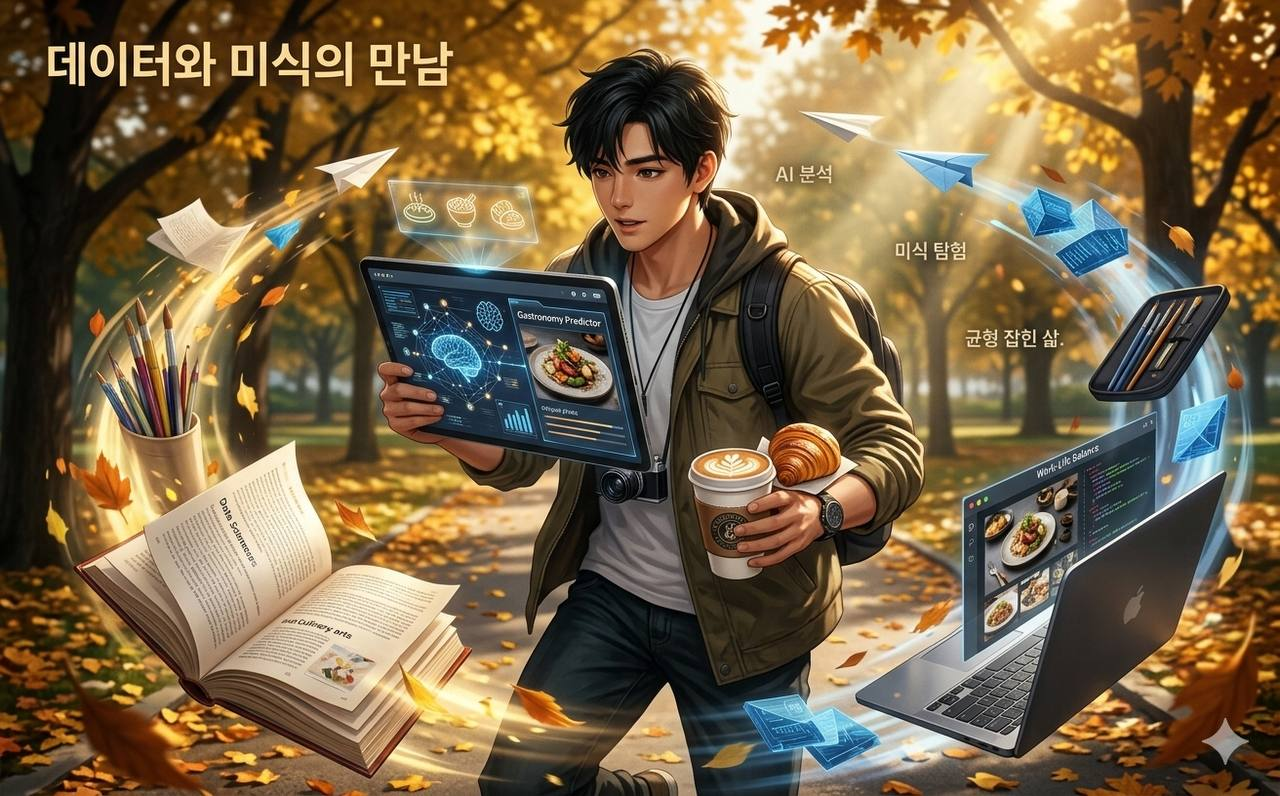
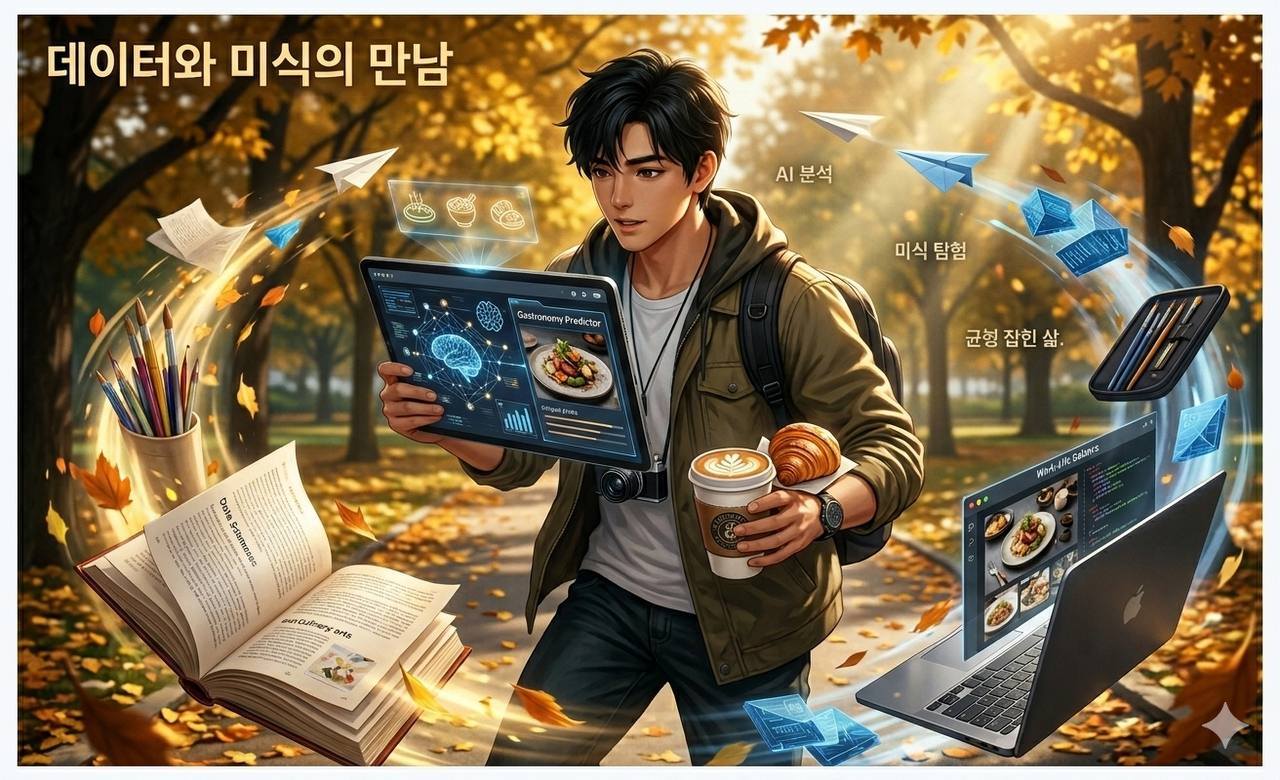
feat: update homepage hero image to 260x160

diff --git a/src/app/page.tsx b/src/app/page.tsx
@@ -37,12 +37,12 @@ export default function Home(){
               <CTAButtonLink href="/about" style={{background:'#4b5563'}}>About</CTAButtonLink>
             </CTAs>
           </div>
-          <div style={{ width: 420, height: 260, borderRadius: 12, overflow: 'hidden', flexShrink: 0, boxShadow: '0 10px 30px rgba(0,0,0,0.08)' }}>
+          <div style={{ width: 260, height: 160, borderRadius: 12, overflow: 'hidden', flexShrink: 0, boxShadow: '0 10px 30px rgba(0,0,0,0.08)' }}>
             <Image
               src="/images/hero-main.jpg"
               alt="Jamie Blog hero image"
-              width={420}
-              height={260}
+              width={260}
+              height={160}
               style={{ width: '100%', height: '100%', objectFit: 'cover', display: 'block' }}
               priority
             />
